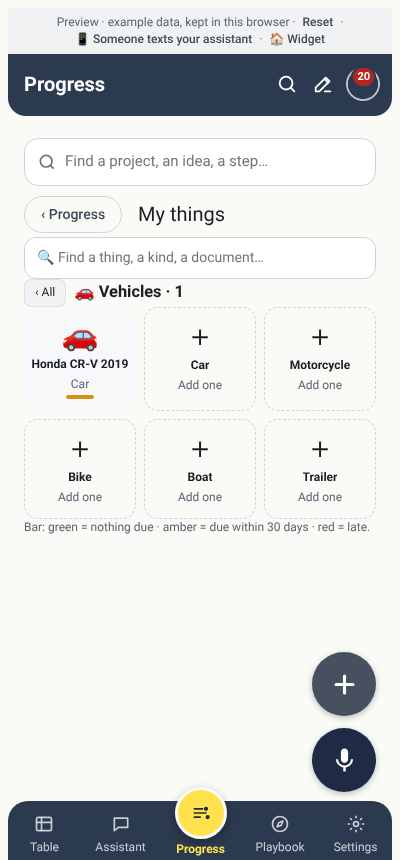
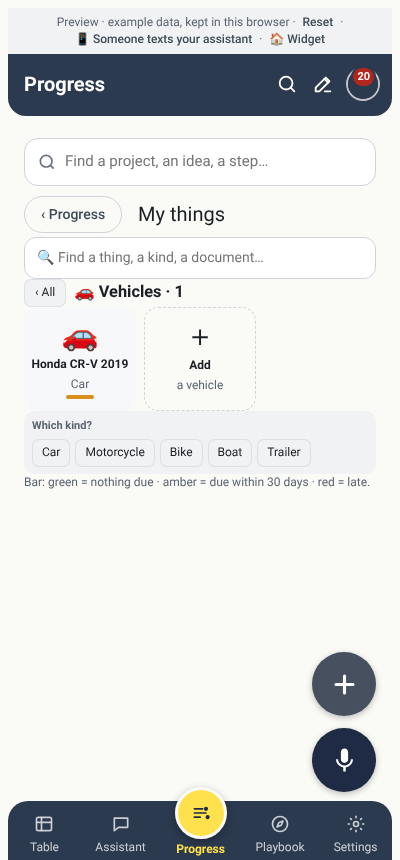
Preview: category shelf lists only owned things; one Add tile asks the kind
Claude-Session: https://claude.ai/code/session_016YHbQ4tSLyRHgwgfX2aic5

diff --git a/docs/preview/docket5-gbn-preview.html b/docs/preview/docket5-gbn-preview.html
@@ -5833,7 +5833,9 @@ function thingsPage() {
     const c = THING_CATS.find(x => x.k === thingsNav.cat), mine = list.filter(a => thingCat(a) === c);
     return search + `<div class="row" style="gap:8px;align-items:center"><button class="tag" data-tback>‹ All</button><h3 class="grow" style="margin:0">${c.ic} ${esc(c.name)} · ${mine.length}</h3></div>
       <div class="tshelf">${mine.map(a => `<button class="ttile" data-tasset="${esc(a.id)}">${a.photo ? `<img src="${a.photo}" alt="">` : `<span class="tic">${assetIcon(a)}</span>`}<b>${esc(a.name)}</b><span class="small">${esc(a.sub || "")}</span><i class="tbar ${thingStatus(a)}"></i></button>`).join("")}
-        ${c.subs.map(sub => `<button class="ttile add" data-tadd="${esc(c.k)}|${esc(sub)}"><span class="tic">＋</span><b>${esc(sub)}</b><span class="small">Add one</span></button>`).join("")}</div>
+        <button class="ttile add" data-tpick aria-expanded="${!!thingsNav.picking}"><span class="tic">＋</span><b>Add</b><span class="small">a ${esc(c.name.toLowerCase().replace(/s$/, ""))}</span></button></div>
+      ${thingsNav.picking ? `<div class="jpanel"><span class="jplab">Which kind?</span><div class="picks">${c.subs.map(sub => tag(false, `data-tadd="${esc(c.k)}|${esc(sub)}"`, esc(sub))).join("")}</div></div>` : ""}
+      ${mine.length ? "" : `<div class="small">Nothing here yet: tap ＋ to add your first one.</div>`}
       <div class="small">Bar: green = nothing due · amber = due within 30 days · red = late.</div>`;
   }
   // The wheel: 8 grey slices; each shows its icon, a status bar under it, its name and how many things.
@@ -5872,9 +5874,10 @@ function bindThings() {
 }
 function bindThingClicks() {
   document.querySelectorAll("[data-tcat]").forEach(g => { const go = () => { thingsNav.cat = g.dataset.tcat; render(); }; g.onclick = go; g.onkeydown = e => { if (e.key === "Enter" || e.key === " ") { e.preventDefault(); go(); } }; });
-  document.querySelectorAll("[data-tback]").forEach(b => b.onclick = () => { thingsNav.cat = null; render(); });
+  document.querySelectorAll("[data-tback]").forEach(b => b.onclick = () => { thingsNav.cat = null; thingsNav.picking = false; render(); });
+  document.querySelectorAll("[data-tpick]").forEach(b => b.onclick = () => { thingsNav.picking = !thingsNav.picking; render(); });
   document.querySelectorAll("[data-tasset]").forEach(b => b.onclick = () => thingProfile(b.dataset.tasset));
-  document.querySelectorAll("[data-tadd]").forEach(b => b.onclick = () => { const [c, sub] = b.dataset.tadd.split("|"); assetDialog(null, { cat: c, sub }); });
+  document.querySelectorAll("[data-tadd]").forEach(b => b.onclick = () => { const [c, sub] = b.dataset.tadd.split("|"); thingsNav.picking = false; assetDialog(null, { cat: c, sub }); });
 }
 let tlZoom = 3, tlSel = null;
 /**
